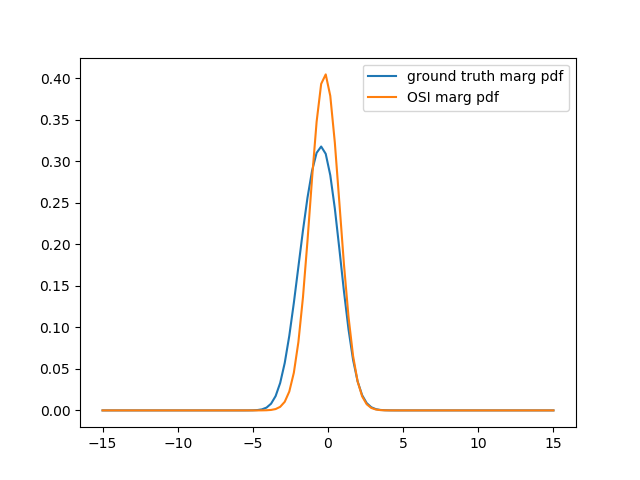
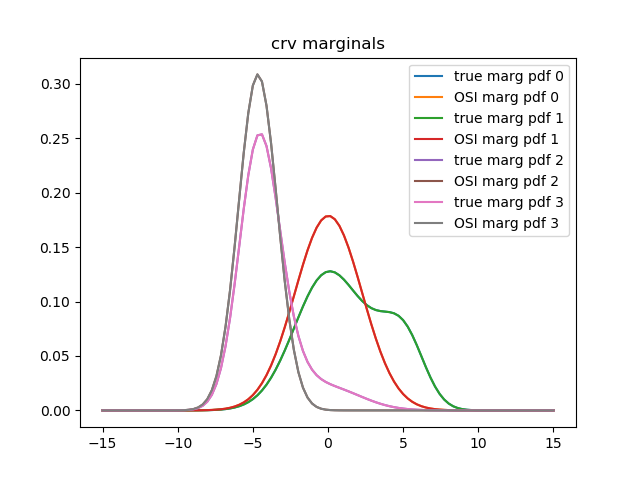
finally manage to produce hybrid model that exhibit mixture marginals (key was to ensure the different gaussian potentials having variances roughly on the same scale, and no component dominates); K=1 does worse than EPBP (good)
EPBP avg time 0.8703505440000043
OSI avg time 7.261772088000001
LOSI avg time 5.409931990000004
EPBP diff 0.04785748489974817
EPBP std 0.02371138622748459
OSI diff 0.1192295168999415
OSI std 0.021991717118557196
LOSI diff 6.195865592528506
LOSI std 2.3261542406229054

diff --git a/osi/hybrid_mln_experiment.py b/osi/hybrid_mln_experiment.py
@@ -50,7 +50,7 @@ atom_D = Atom(domain_bool, logical_variables=(lv_x, lv_s), name='D')
 atom_E = Atom(domain_bool, logical_variables=(lv_y, lv_s), name='E')
 
 f1 = ParamF(  # disc
-    MLNPotential(lambda x: imp_op(x[0] * x[1], x[2]), w=1), nb=(atom_D, atom_E, atom_C)
+    MLNPotential(lambda x: imp_op(x[0] * x[1], x[2]), w=0.1), nb=(atom_D, atom_E, atom_C)
 )
 
 w_h = 0.1
@@ -66,9 +66,9 @@ equiv_hybrid_pot = HybridQuadraticPotential(
     c=-w_h * np.array([a ** 2, b ** 2])
 )
 
-prior_var = 0.5  # variance of Gaussian prior
+prior_strength = 0.05  # variance of Gaussian prior 0.2 was good heavy tail
 f3 = ParamF(  # cont
-    QuadraticPotential(A=-0.5 * (np.eye(2) * prior_var), b=np.array([1., 0.]), c=0.),
+    QuadraticPotential(A=-prior_strength * (np.eye(2)), b=np.array([0., 0.]), c=0.),
     nb=[atom_A, atom_B]
 )
 
@@ -77,7 +77,7 @@ rel_g.atoms = (atom_A, atom_B, atom_C, atom_D, atom_E)
 rel_g.param_factors = (f1, f2, f3)
 rel_g.init_nb()
 
-num_tests = 2  # num rounds with different queries
+num_tests = 1  # num rounds with different queries
 num_runs = 1
 
 avg_diff = dict()
@@ -258,25 +258,28 @@ for test_num in range(num_tests):
     print(name, 'var', np.average(np.average(res ** 2, axis=1)) - np.average(np.average(abs(res), axis=1)) ** 2)
 
 print('plotting example marginal from last run')
-test_crv_idx = 3
 
 import matplotlib.pyplot as plt
 
 plt.figure()
 xs = np.linspace(domain_real.values[0], domain_real.values[1], 100)
 
-if baseline == 'exact':
-    test_crv_marg_params = get_crv_marg(*bn, test_crv_idx)
-    plt.plot(xs, np.exp(utils.get_scalar_gm_log_prob(xs, w=test_crv_marg_params[0], mu=test_crv_marg_params[1],
-                                                     var=test_crv_marg_params[2])), label='ground truth marg pdf')
+for test_crv_idx in range(len(Vc)):
+    if baseline == 'exact':
+        test_crv_marg_params = get_crv_marg(*bn, test_crv_idx)
+        plt.plot(xs, np.exp(utils.get_scalar_gm_log_prob(xs, w=test_crv_marg_params[0], mu=test_crv_marg_params[1],
+                                                         var=test_crv_marg_params[2])),
+                 label=f'true marg pdf {test_crv_idx}')
 
-if baseline == 'gibbs':
-    plt.hist(hgsampler.cont_samples[:, test_crv_idx], normed=True, label='samples')
+    if baseline == 'gibbs':
+        plt.hist(hgsampler.cont_samples[:, test_crv_idx], normed=True, label='samples')
 
-osi_test_crv_marg_params = osi.params['w'], osi.params['Mu'][test_crv_idx], osi.params['Var'][test_crv_idx]
-plt.plot(xs, np.exp(utils.get_scalar_gm_log_prob(xs, w=osi_test_crv_marg_params[0], mu=osi_test_crv_marg_params[1],
-                                                 var=osi_test_crv_marg_params[2])), label='OSI marg pdf')
+    osi_test_crv_marg_params = osi.params['w'], osi.params['Mu'][test_crv_idx], osi.params['Var'][test_crv_idx]
+    plt.plot(xs, np.exp(utils.get_scalar_gm_log_prob(xs, w=osi_test_crv_marg_params[0], mu=osi_test_crv_marg_params[1],
+                                                     var=osi_test_crv_marg_params[2])),
+             label=f'OSI marg pdf {test_crv_idx}')
 plt.legend(loc='best')
+plt.title('crv marginals')
 # plt.show()
 save_name = __file__.split('.py')[0]
 plt.savefig('%s.png' % save_name)
